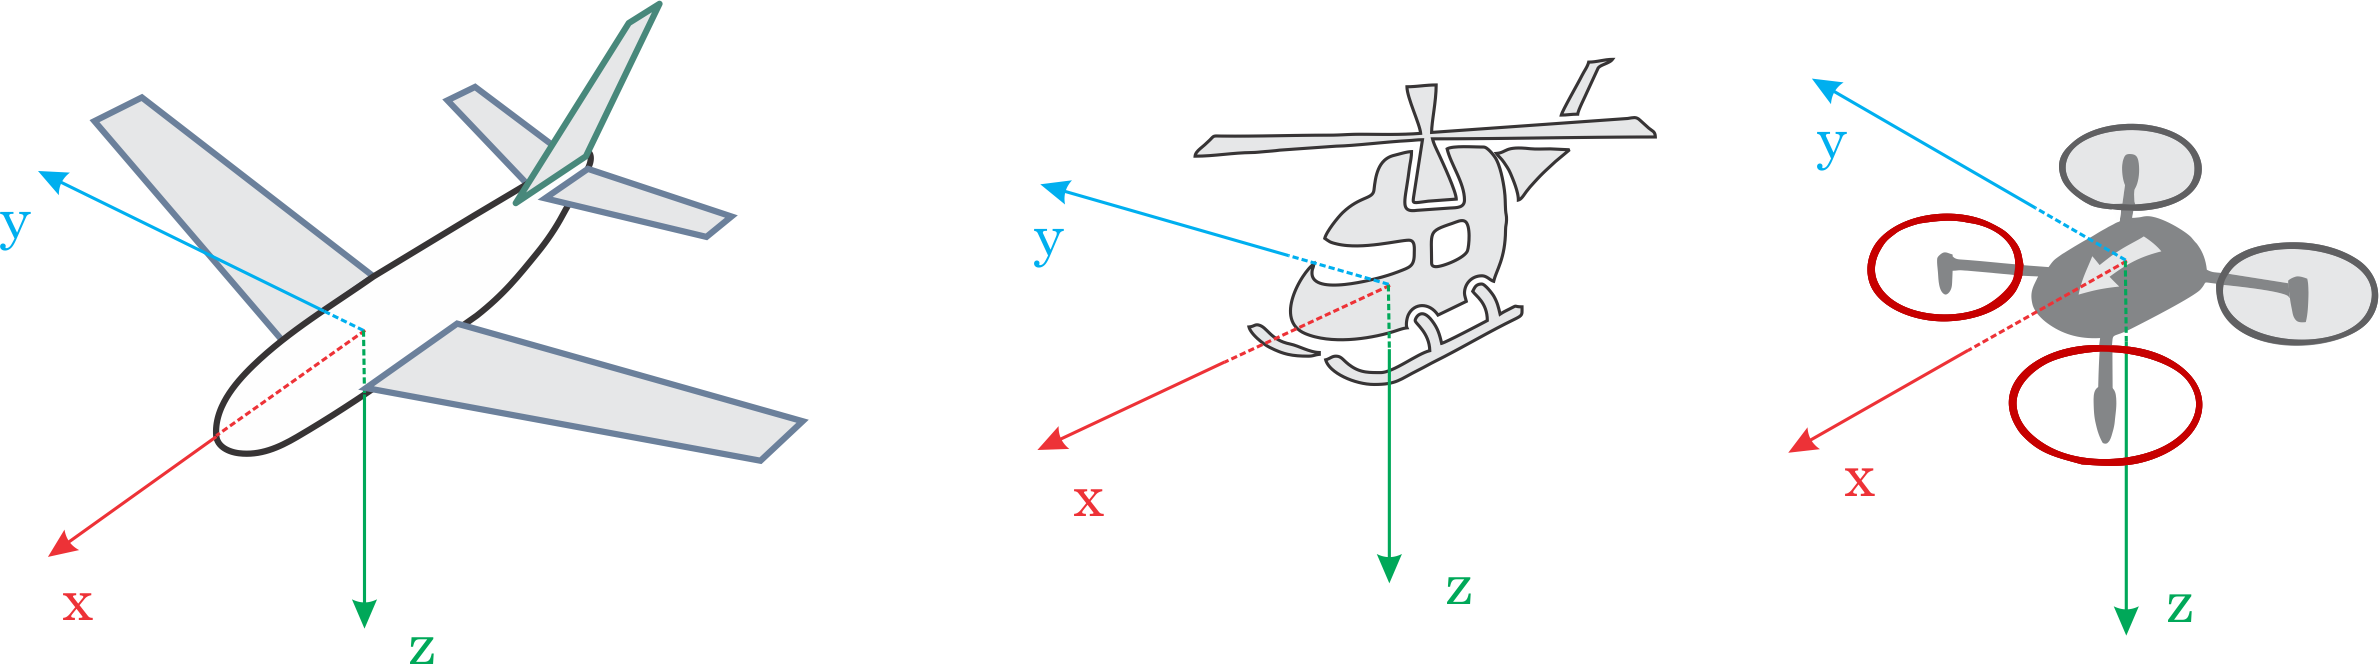
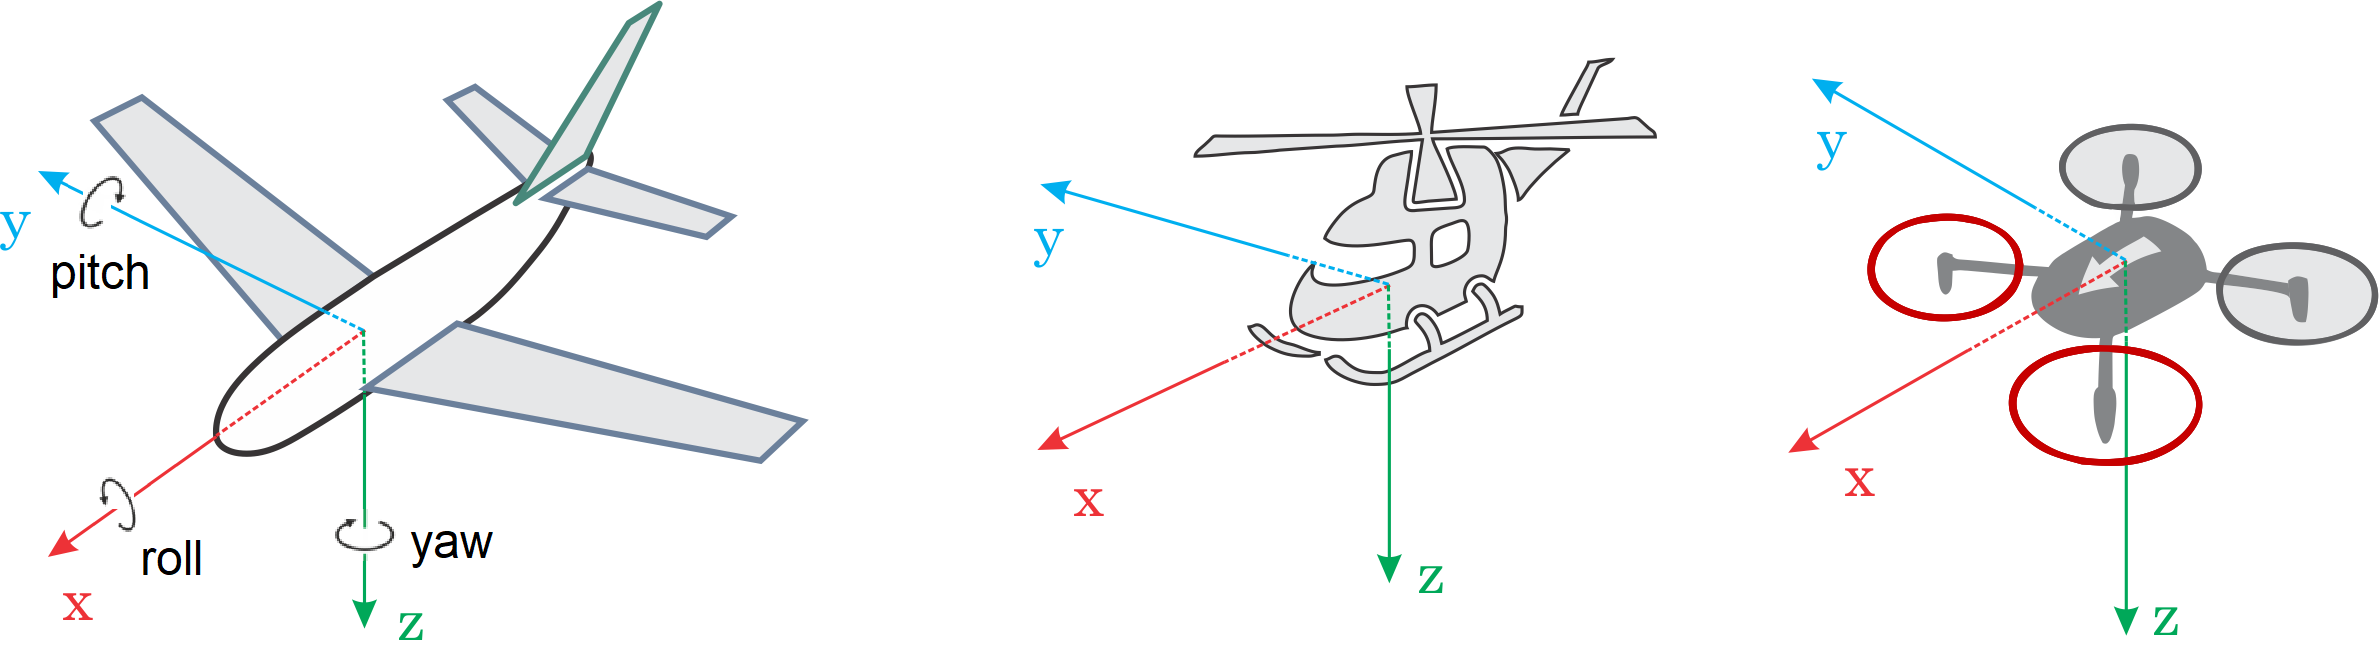
Improve sensor orientation info

diff --git a/en/config/flight_controller_orientation.md b/en/config/flight_controller_orientation.md
@@ -5,7 +5,9 @@ If the board or an external compass are mounted in any other orientation then yo
 
 ## Calculating Orientation
 
-ROLL, PITCH and/or YAW offsets of the flight controller are calculated relative to the vehicle around the forward, right, down axes.
+ROLL, PITCH and/or YAW offsets of the flight controller are calculated relative to the vehicle around the forward (x), right (y), down (z) axes.
+
+![Frame Heading](../../assets/concepts/frame_heading.png)
 
 The axes to rotate around stay the same from one rotation step to the next one.
 So the frame to perform the rotation in stays fixed.
@@ -13,13 +15,14 @@ This is also known as *extrinsic rotation*.
 
 <img src="../../assets/qgc/setup/sensor/fc_orientation_1.png" style="width: 600px;"/>
 
-For example, the vehicles shown below have rotations around the z-axis (only) corresponding to: `ROTATION_NONE`, `ROTATION_YAW_90`,`ROTATION_YAW_180`,`ROTATION_YAW_270`.
+For example, the vehicles shown below have rotations around the z-axis (i.e. yaw only) corresponding to: `ROTATION_NONE`, `ROTATION_YAW_90`,`ROTATION_YAW_180`,`ROTATION_YAW_270`.
 
 ![Yaw Rotation](../../assets/qgc/setup/sensor/yaw_rotation.png)
 
-> **Note** For a VTOL Tailsitter airframe set the vehicle orientation according to its multirotor (hovering) configuration.
-  This also applies to all other sensor calibrations.
-
+> **Note** For a VTOL Tailsitter airframe set the vehicle orientation according to its multirotor configuration (i.e. relative to the vehicle during, takeoff, hovering, landing) for all sensor calibrations.
+>
+>    The axis are normally relative to the orientation of the vehicle during steady forward flight. 
+>    For more information see [Basic Concepts](../getting_started/px4_basic_concepts.md#heading-and-directions).
 
 ## Setting the Orientation
 

diff --git a/en/getting_started/px4_basic_concepts.md b/en/getting_started/px4_basic_concepts.md
@@ -256,6 +256,8 @@ All the vehicles, boats and aircraft have a heading direction or an orientation 
 
 ![Frame Heading](../../assets/concepts/frame_heading.png)
 
+> **Note** For a VTOL Tailsitter the heading is relative to the multirotor configuration (i.e. vehicle pose during, takeoff, hovering, landing).
+
 It is important to know the vehicle heading direction in order to align the autopilot with the vehicle vector of movement. 
 Multicopters have a heading even when they are symmetrical from all sides!
 Usually manufacturers use a colored props or colored arms to indicate the heading.
